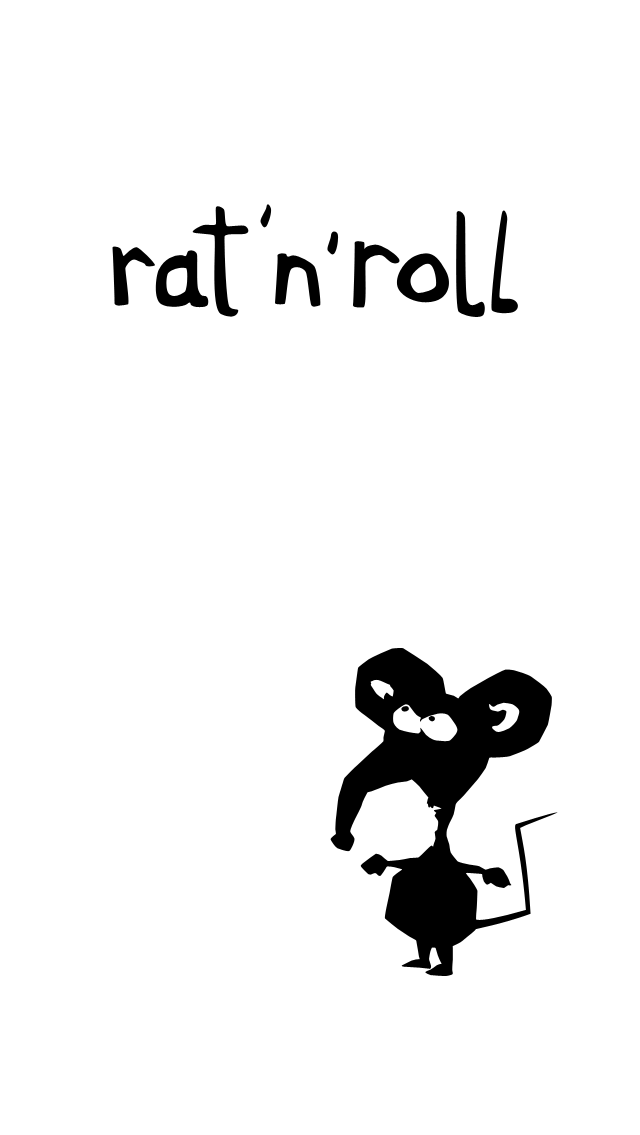
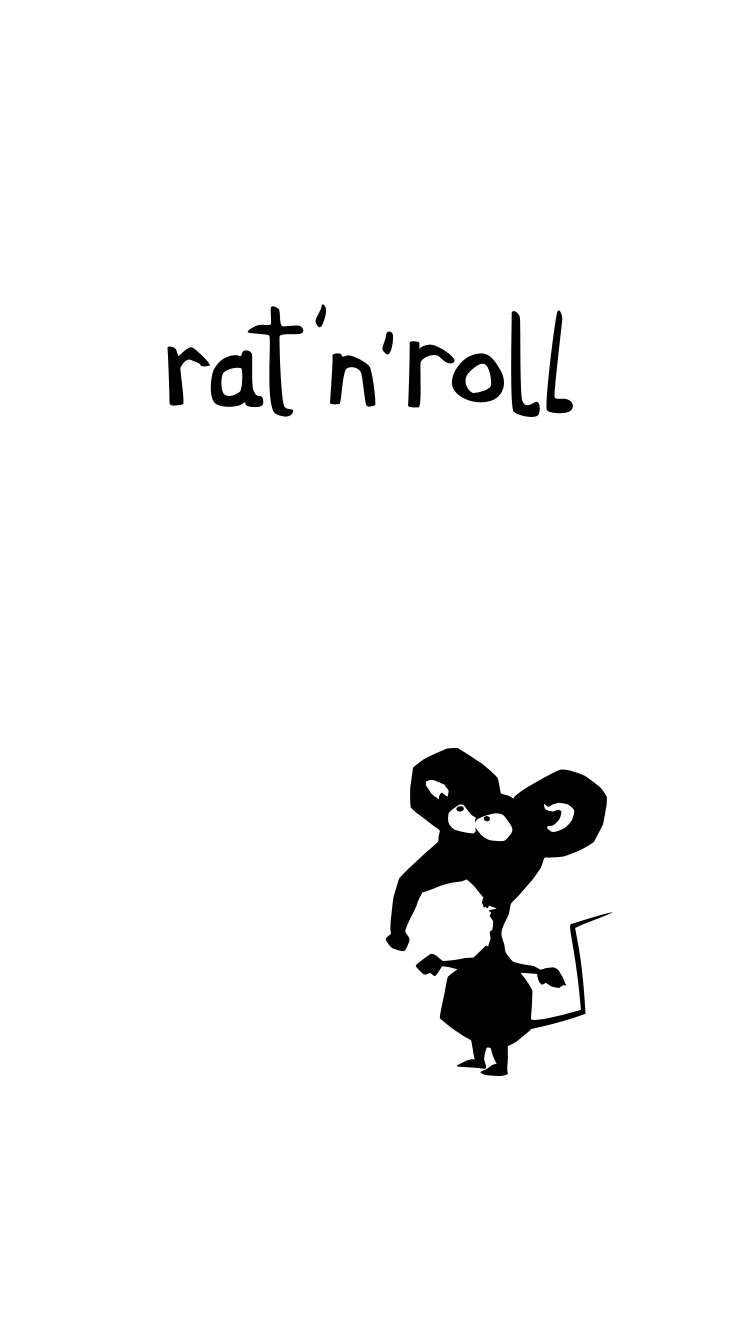
Use splash screen as a background for loading screen
- Add cocos2d::Application::getInstance()->getSplashScreen() returning CCSprite holding
  current splash screen,
- Rework PreloadingLayer to use splash screen (and fallback to blue gradient if no CCSprite
  with splash screen is returned),
- Fix resolutions of all splash screen images, add one which was missing - Default@2x.png
  (new splashscreens must exactly much resolution of Default*.png files).

Changed region(s): [[0.5, 0.5551, 0.875, 0.8634], [0.1562, 0.185, 0.8125, 0.3392]]

diff --git a/Classes/PreloadingLayer.cpp b/Classes/PreloadingLayer.cpp
@@ -16,19 +16,7 @@ bool PreloadingLayer::init()
         return false;
     }
 
-    Vec2 visibleSize(Director::getInstance()->getVisibleSize());
-
-    auto backgroundImage = Sprite::create("background/bg_plane01.png");
-    backgroundImage->setPosition(visibleSize / 2);
-    backgroundImage->setScale(visibleSize.x / backgroundImage->getContentSize().width,
-                              visibleSize.y / backgroundImage->getContentSize().height);
-    addChild(backgroundImage);
-
-    auto loadingImage = MipmapSprite::create("menu/loading.png");
-    loadingImage->setPosition(visibleSize * 0.5);
-    loadingImage->setScale(visibleSize.x / loadingImage->getContentSize().width * 0.45);
-    addChild(loadingImage);
-
+    addBackgroundImage();
     addChild(MenuLabel::create("LOADING", {0.5, 0.27}, 0.03));
 
     filesToPreload = AssetsPreloader::list();
@@ -62,6 +50,22 @@ void PreloadingLayer::preload(float t)
             preloadingCompletedCallback();
         }
     }
+}
+
+void PreloadingLayer::addBackgroundImage()
+{
+    Vec2 visibleSize(Director::getInstance()->getVisibleSize());
+
+    auto backgroundImage = Application::getInstance()->getSplashScreen();
+
+    if (backgroundImage == nullptr) {
+        backgroundImage = Sprite::create("background/bg_plane01.png");
+        backgroundImage->setScale(visibleSize.x / backgroundImage->getContentSize().width,
+                                  visibleSize.y / backgroundImage->getContentSize().height);
+    }
+
+    backgroundImage->setPosition(visibleSize / 2);
+    addChild(backgroundImage);
 }
 
 void PreloadingLayer::insertBackgroundItem(int no)

diff --git a/cocos2d/cocos/platform/ios/CCApplication-ios.mm b/cocos2d/cocos/platform/ios/CCApplication-ios.mm
@@ -31,6 +31,7 @@
 
 #import "math/CCGeometry.h"
 #import "CCDirectorCaller-ios.h"
+#import "platform/CCImage.h"
 
 NS_CC_BEGIN
 
@@ -188,6 +189,48 @@ bool Application::openURL(const std::string &url)
 
 void Application::applicationScreenSizeChanged(int newWidth, int newHeight) {
 
+}
+
+namespace {
+
+cocos2d::Sprite* getCCSpriteFromUIImage(UIImage *uiImage)
+{
+    NSData *imageData = UIImagePNGRepresentation(uiImage);
+
+    cocos2d::Image *image =new cocos2d::Image();
+
+    image->initWithImageData(static_cast<const Byte*>([imageData bytes]), imageData.length);
+    image->autorelease();
+
+    cocos2d::Texture2D* texture = new cocos2d::Texture2D();
+    texture->initWithImage(image);
+    texture->autorelease();
+
+    return cocos2d::Sprite::createWithTexture(texture);
+}
+
+}
+
+Sprite *Application::getSplashScreen()
+{
+    NSArray *pngImageNames = [[NSBundle mainBundle] pathsForResourcesOfType:@"png"
+                                                                 inDirectory:nil];
+
+    for (NSString *imageName in pngImageNames)
+    {
+        if ([imageName containsString:@"Default"])
+        {
+            UIImage *uiImage = [UIImage imageNamed:imageName];
+
+            if (uiImage.scale == [UIScreen mainScreen].scale &&
+                CGSizeEqualToSize(uiImage.size, [UIScreen mainScreen].bounds.size))
+            {
+                return getCCSpriteFromUIImage(uiImage);
+            }
+        }
+    }
+
+    return NULL;
 }
 
 NS_CC_END

diff --git a/cocos2d/cocos/platform/ios/CCApplication-ios.h b/cocos2d/cocos/platform/ios/CCApplication-ios.h
@@ -29,6 +29,7 @@ THE SOFTWARE.
 #include "platform/CCPlatformConfig.h"
 #if CC_TARGET_PLATFORM == CC_PLATFORM_IOS
 
+#include "2d/CCSprite.h"
 #include "platform/CCCommon.h"
 #include "platform/CCApplicationProtocol.h"
 
@@ -99,6 +100,8 @@ public:
 	@param new height
 	*/
 	virtual void applicationScreenSizeChanged(int newWidth, int newHeight);
+
+    Sprite *getSplashScreen();
 
 protected:
     static Application * sm_pSharedApplication;

diff --git a/Classes/PreloadingLayer.h b/Classes/PreloadingLayer.h
@@ -21,6 +21,8 @@ class PreloadingLayer : public cocos2d::Layer
   private:
     void preload(float t);
 
+    void addBackgroundImage();
+
     void insertBackgroundItem(int no);
     std::vector<std::string> filesToPreload;
 
